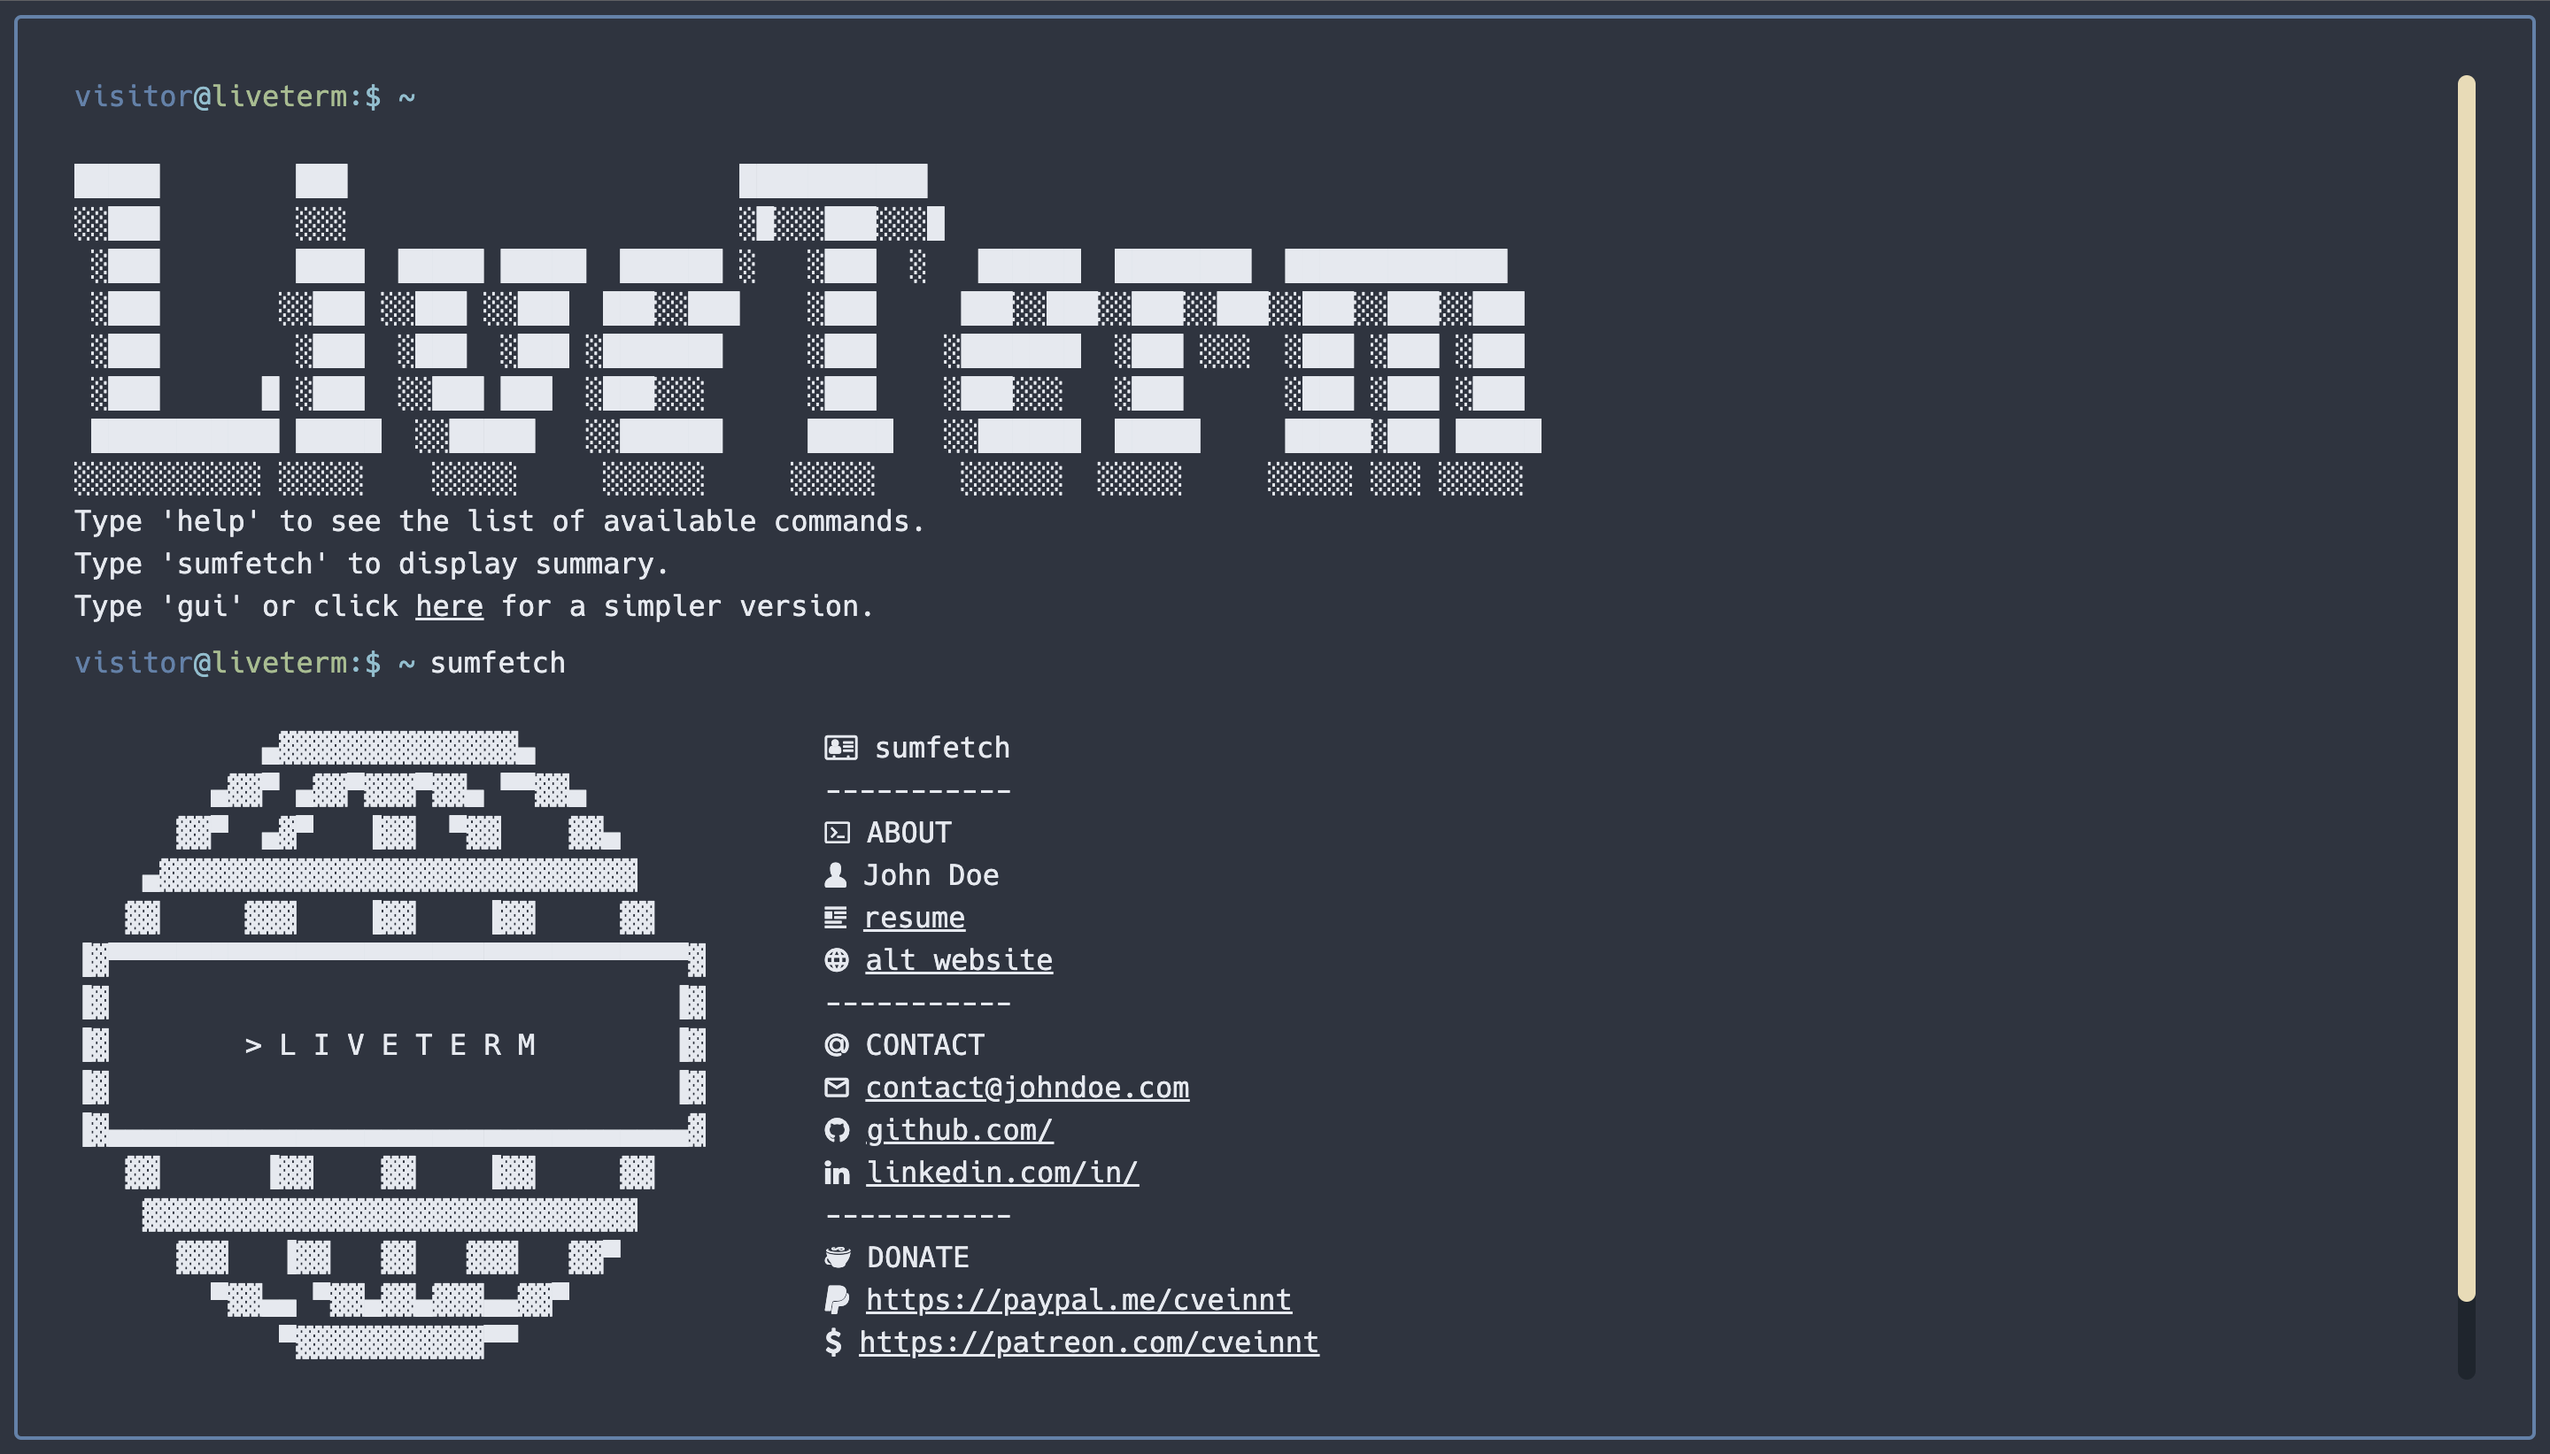
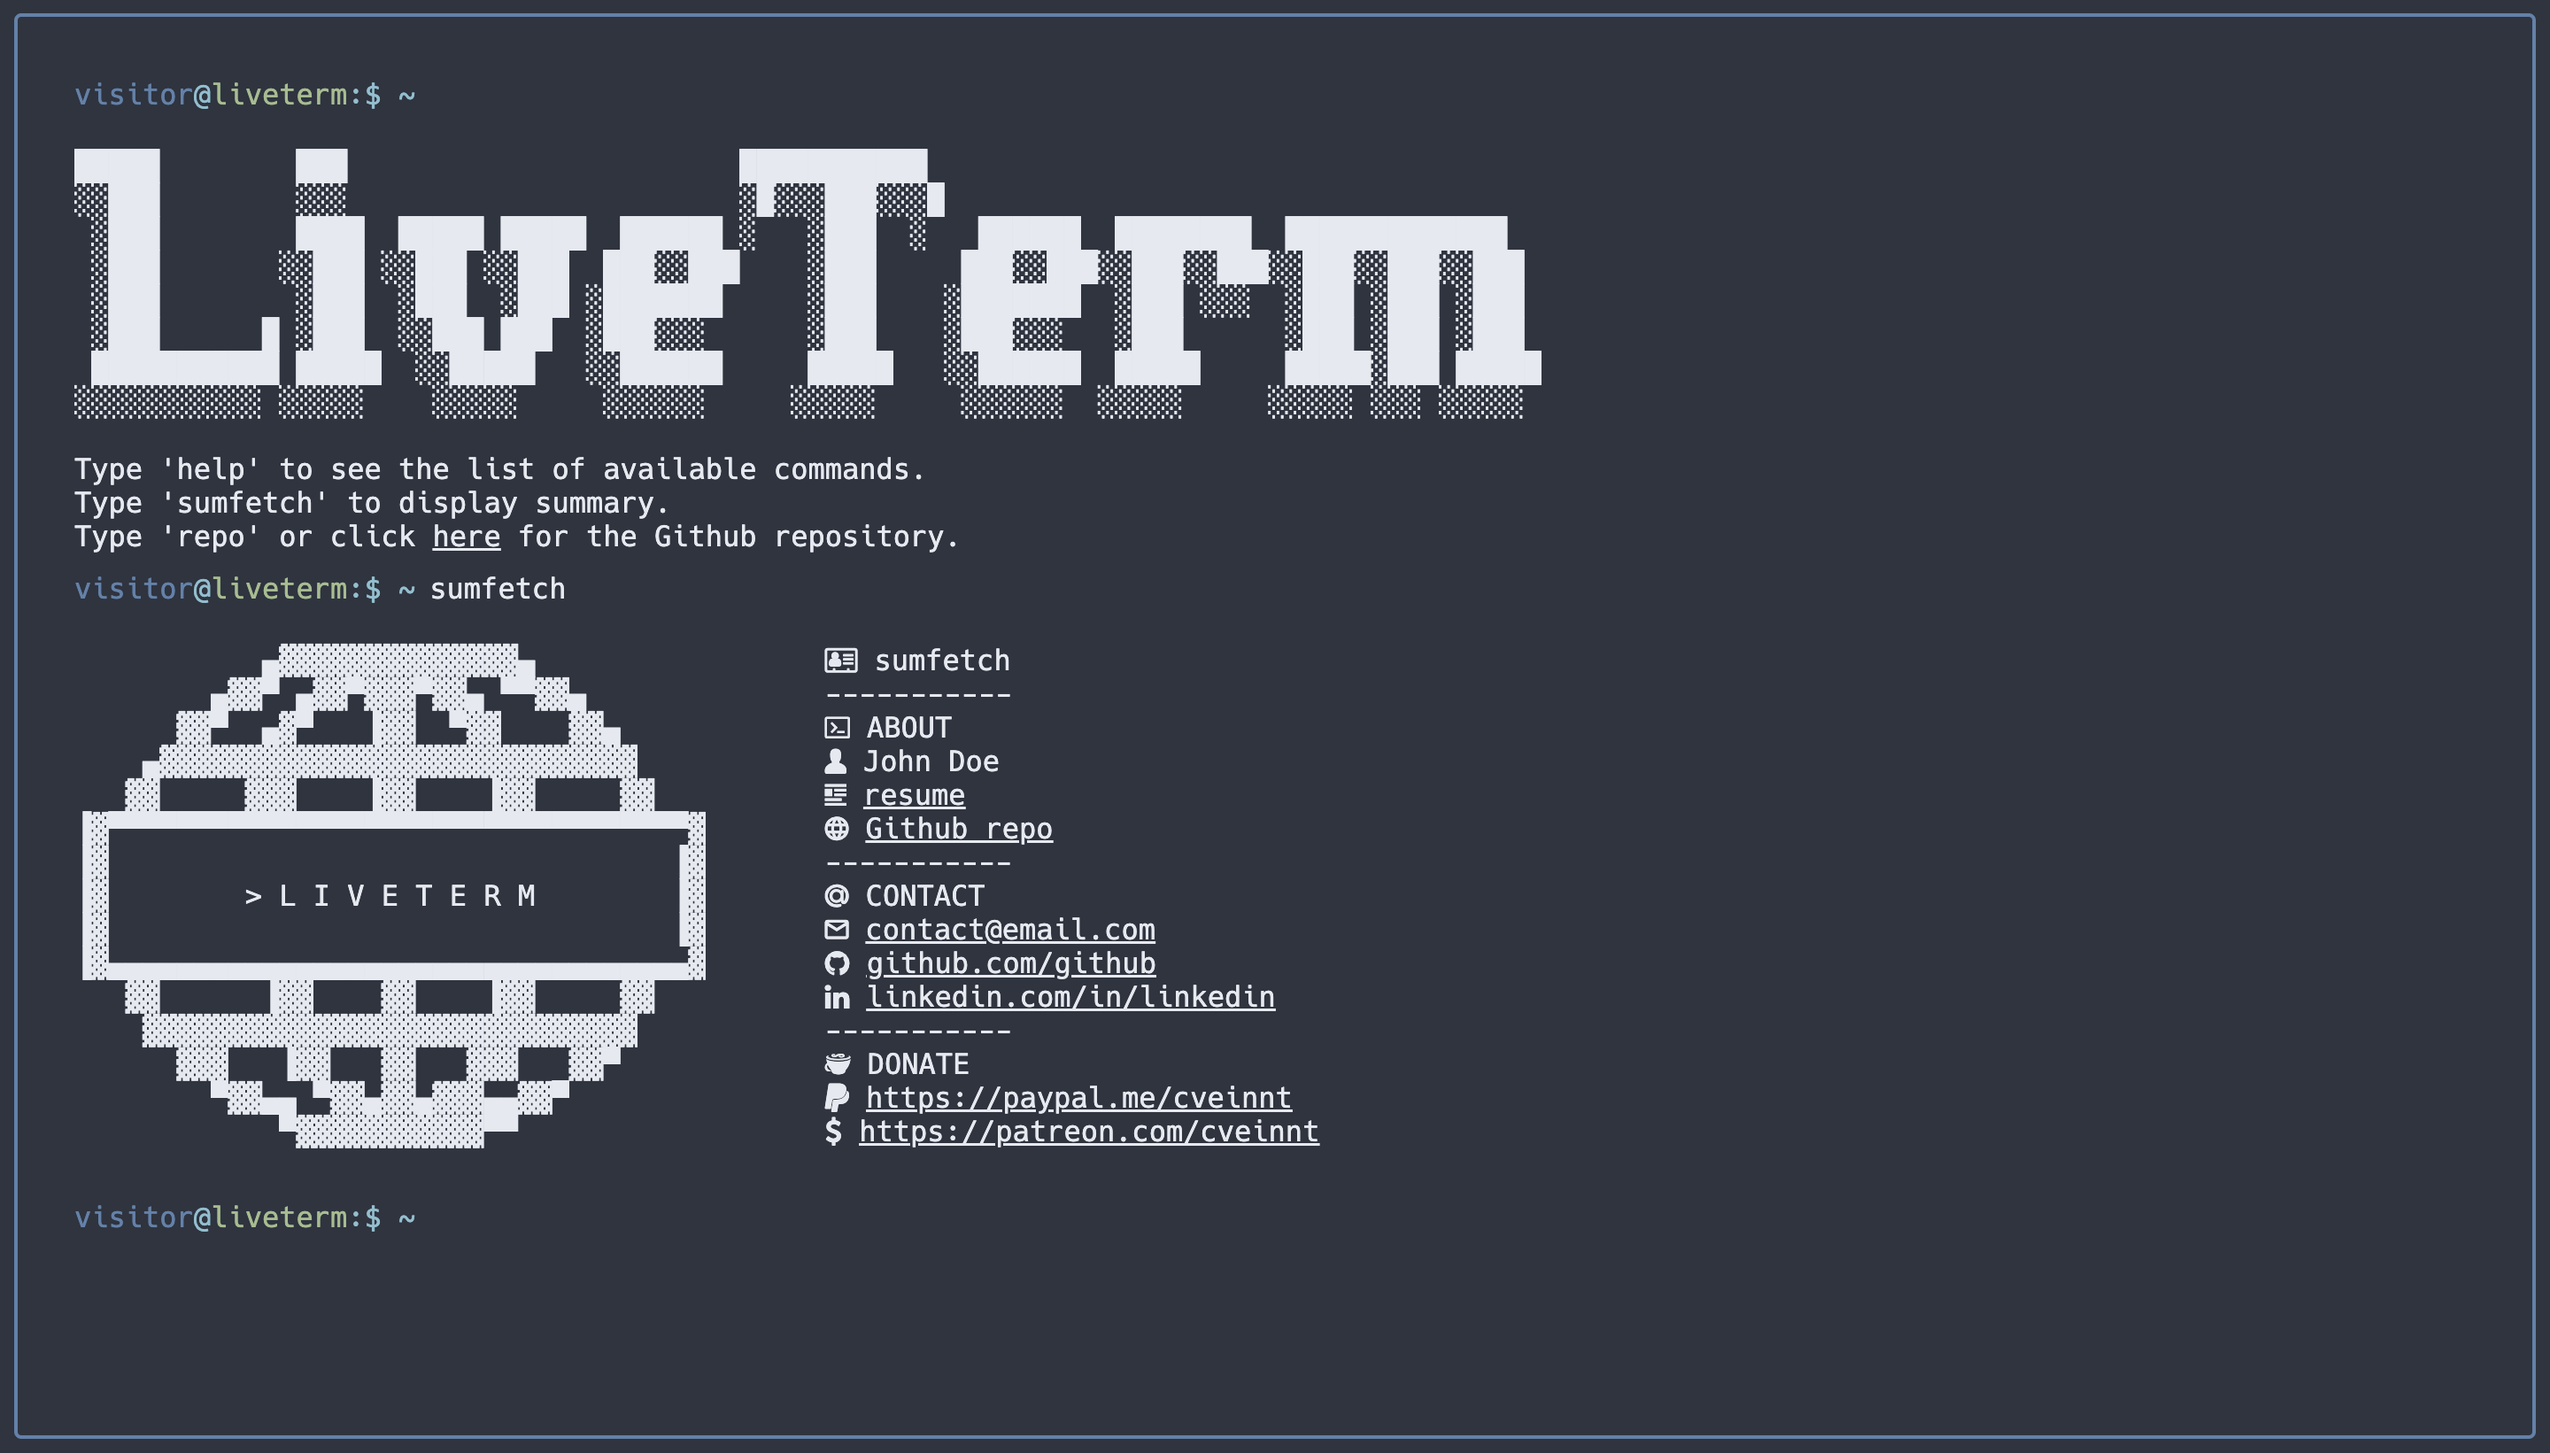
update readme

Changed region(s): [[0.0312, 0.0932, 0.625, 0.9324], [0.9375, 0.0622, 0.9688, 0.9013], [0.0938, 0.0622, 0.125, 0.0932]]

diff --git a/src/utils/bin/commands.ts b/src/utils/bin/commands.ts
@@ -19,14 +19,13 @@ export const help = async (args: string[]): Promise<string> => {
 [tab]: trigger completion.
 [ctrl+l]/clear: clear terminal.\n
 Type 'sumfetch' to display summary.
-Type 'gui' or click <u><a href="${config.non_terminal_url}" target="_blank">here</a></u> for a simpler version.
 `;
 };
 
 // Redirection
-export const gui = async (args: string[]): Promise<string> => {
-  window.open(`${config.non_terminal_url}`);
-  return 'Opening GUI version...';
+export const repo = async (args: string[]): Promise<string> => {
+  window.open(`${config.repo}`);
+  return 'Opening Github repository...';
 };
 
 // About
@@ -114,7 +113,7 @@ export const emacs = async (args?: string[]): Promise<string> => {
 };
 
 export const sudo = async (args?: string[]): Promise<string> => {
-  window.open('https://www.youtube.com/watch?v=dQw4w9WgXcQ', '_blank'); // good ol' rick roll
+  window.open('https://www.youtube.com/watch?v=dQw4w9WgXcQ', '_blank'); // ...I'm sorry
   return `Permission denied: with little power comes... no responsibility? `;
 };
 
@@ -129,8 +128,9 @@ export const banner = (args?: string[]): string => {
  ░███      █ ░███  ░░███ ███  ░███░░░      ░███    ░███░░░   ░███      ░███ ░███ ░███ 
  ███████████ █████  ░░█████   ░░██████     █████   ░░██████  █████     █████░███ █████
 ░░░░░░░░░░░ ░░░░░    ░░░░░     ░░░░░░     ░░░░░     ░░░░░░  ░░░░░     ░░░░░ ░░░ ░░░░░ 
+
 Type 'help' to see the list of available commands.
 Type 'sumfetch' to display summary.
-Type 'gui' or click <u><a class="text-light-blue dark:text-dark-blue underline" href="${config.non_terminal_url}" target="_blank">here</a></u> for a simpler version.
+Type 'repo' or click <u><a class="text-light-blue dark:text-dark-blue underline" href="${config.repo}" target="_blank">here</a></u> for the Github repository.
 `;
 };

diff --git a/src/utils/bin/sumfetch.ts b/src/utils/bin/sumfetch.ts
@@ -9,7 +9,7 @@ const sumfetch = async (args: string[]): Promise<string> => {
     @@                           @@          ${config.name}
   @@                               @@       ﰩ ${config.ps1_hostname}
  @@                         @@@     @@       <u><a href="${config.resume_url}" target="_blank">resume</a></u>
-@@        @@@                        @@     爵 <u><a href="${config.non_terminal_url}" target="_blank">alt website</a></u>
+@@        @@@                        @@     爵 <u><a href="${config.repo}" target="_blank">Github repo</a></u>
 @@                                   @@     -----------
 @@             .@@@@@@@@@@.          @@      CONTACT 
  @@           @@          @@        @@       <u><a href="mailto:${config.email}" target="_blank">${config.email}</a></u>
@@ -28,7 +28,7 @@ const sumfetch = async (args: string[]): Promise<string> => {
       ▓▓▀  ▄▓▀   ▐▓▓  ▀▓▓    ▓▓▄             ABOUT
     ▄▓▓▓▓▓▓▓▓▓▓▓▓▓▓▓▓▓▓▓▓▓▓▓▓▓▓▓▓            ${config.name}
    ▓▓     ▓▓▓    ▐▓▓    ▐▓▓     ▓▓           <u><a href="${config.resume_url}" target="_blank">resume</a></u>
-▐▓▀▀▀▀▀▀▀▀▀▀▀▀▀▀▀▀▀▀▀▀▀▀▀▀▀▀▀▀▀▀▀▀▀▀▓       爵 <u><a href="${config.non_terminal_url}" target="_blank">alt website</a></u>
+▐▓▀▀▀▀▀▀▀▀▀▀▀▀▀▀▀▀▀▀▀▀▀▀▀▀▀▀▀▀▀▀▀▀▀▀▓       爵 <u><a href="${config.repo}" target="_blank">Github repo</a></u>
 ▐▓                                 ▐▓       -----------
 ▐▓        > L I V E T E R M        ▐▓        CONTACT 
 ▐▓                                 ▐▓        <u><a href="mailto:${config.email}" target="_blank">${config.email}</a></u>

diff --git a/src/components/history/History.tsx b/src/components/history/History.tsx
@@ -19,7 +19,7 @@ export const History: React.FC<{ history: Array<HistoryInterface> }> = ({
 
           <p
             className="whitespace-pre-wrap mb-2"
-            // style={{ lineHeight: 'normal' }}
+            style={{ lineHeight: 'normal' }}
             dangerouslySetInnerHTML={{ __html: entry.output }}
           />
         </div>

diff --git a/README.md b/README.md
@@ -1,20 +1,14 @@
-# [LiveTerm - Make Terminal styled websites in minutes!](https://cveinnt.com)
+# [LiveTerm - Make terminal styled websites in minutes!](https://liveterm.vercel.app)
 
-Highly customizable, easy-to-use, and minimal terminal styled website template, written in Next.js.
+Highly customizable, easy-to-use, and minimal terminal styled website template, powered by Next.js.
 
-# Table of Contents:
+To build a simple terminal styled website with LiveTerm, you only need to work with one file: `config.json`. After you filled out the config file, simply run `yarn install && yarn dev` to build your website!
 
-- [LiveTerm - Make Terminal styled websites in minutes!](#liveterm---make-terminal-styled-websites-in-minutes)
-- [Table of Contents:](#table-of-contents)
-  - [Showcase](#showcase)
-  - [Quick Start](#quick-start)
-  - [Configuration](#configuration)
-    - [Basic Configuration](#basic-configuration)
-    - [Favicons](#favicons)
-    - [Banner](#banner)
-    - [Advanced Configuration](#advanced-configuration)
-  - [Deploy on Vercel](#deploy-on-vercel)
-  - [Credit](#credit)
+LiveTerm can be used to build a variety of websites: a personal website, a project page, a startpage, or just a cool browser music player...you name it!
+
+Source files for LiveTerm are all less than 150 lines of codes in length, with great emphasis towards readability and customizability.
+
+Feel free to play with the web demo!
 
 ## Showcase
 
@@ -23,14 +17,14 @@ Highly customizable, easy-to-use, and minimal terminal styled website template, 
 <strong>Default LiveTerm</strong>
 </p>
 
-Live version [here](https://cveinnt.com)
+Live version: https://liveterm.vercel.app
 
 <p align="center">
 <img src="./demo/cveinnt.png" width="800"><br>
 <strong>my personal website</strong>
 </p>
 
-Live version [here](https://cveinnt.com)
+Live version: https://cveinnt.com
 
 ## Quick Start
 
@@ -66,24 +60,33 @@ Most of the configuration is done through the `config.json` file.
 
 ```javascript
 {
-  "readmeUrl": //create a Github README and link it here!
-  "title": //title of the website
-  "name": //returned by the command of the same name
+  "readmeUrl": // create a Github README and link it here!
+  "title": // title of the website
+  "name": // returned by the command of the same name
+  "ascii": // ascii art to display
   "social": {
     "github": // your handle
     "linkedin": // your handle
   },
   "email": // your email
-  "ps1_hostname": //hostname in prompt
-  "ps1_username": "guest", // username in prompt
+  "ps1_hostname": "liveterm" // hostname in prompt
+  "ps1_username": "visitor", // username in prompt
+  "resume_url": "~/Resume.pdf", // path to your resume
   "non_terminal_url": "W",
   "colors": {
-    ... // you can use existing templates in themes.json or use your own!
+    "light": {
+      ...
+    },
+    "dark": {
+      ... // you can use existing templates in themes.json or use your own!
+    }
   }
 }
 ```
 
 Feel free to change it as you see fit!
+
+### Themes
 
 You can find several pre-configured themes in `themes.json`, and you can replace the colors in `config.json` with the theme color you like! The themes are based on the themes on [this website](https://glitchbone.github.io/vscode-base16-term/#/).
 
@@ -92,7 +95,7 @@ You can find several pre-configured themes in `themes.json`, and you can replace
 <strong>different LiveTerm themes</strong>
 </p>
 
-Just replace `"light"` or `"dark"` in the `"color"` part of the config file!
+For a better preview of the themes, checkout the images in the `demo` folder.
 
 ### Favicons
 
